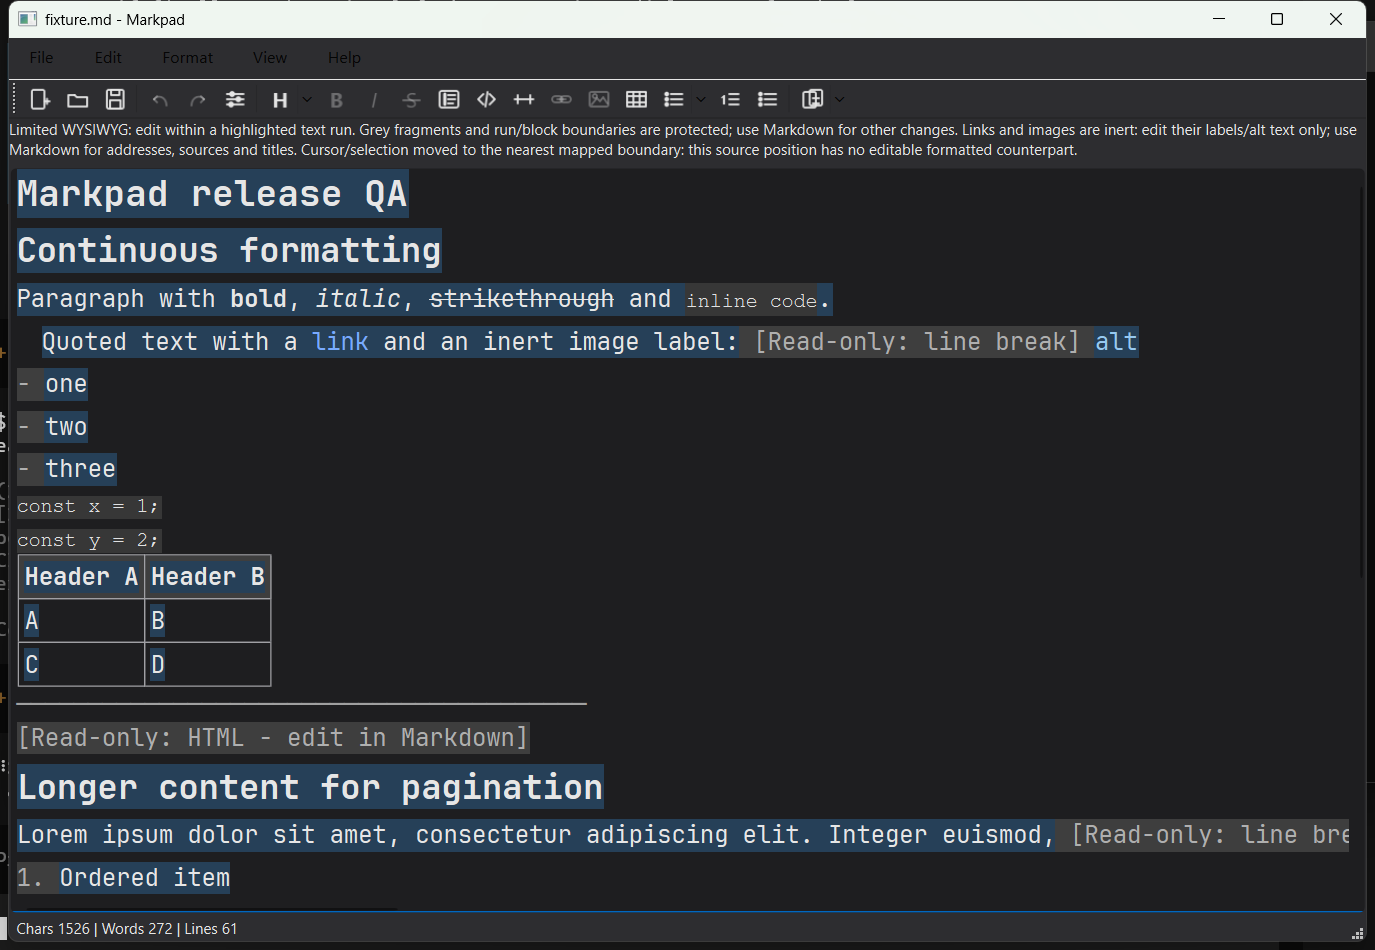
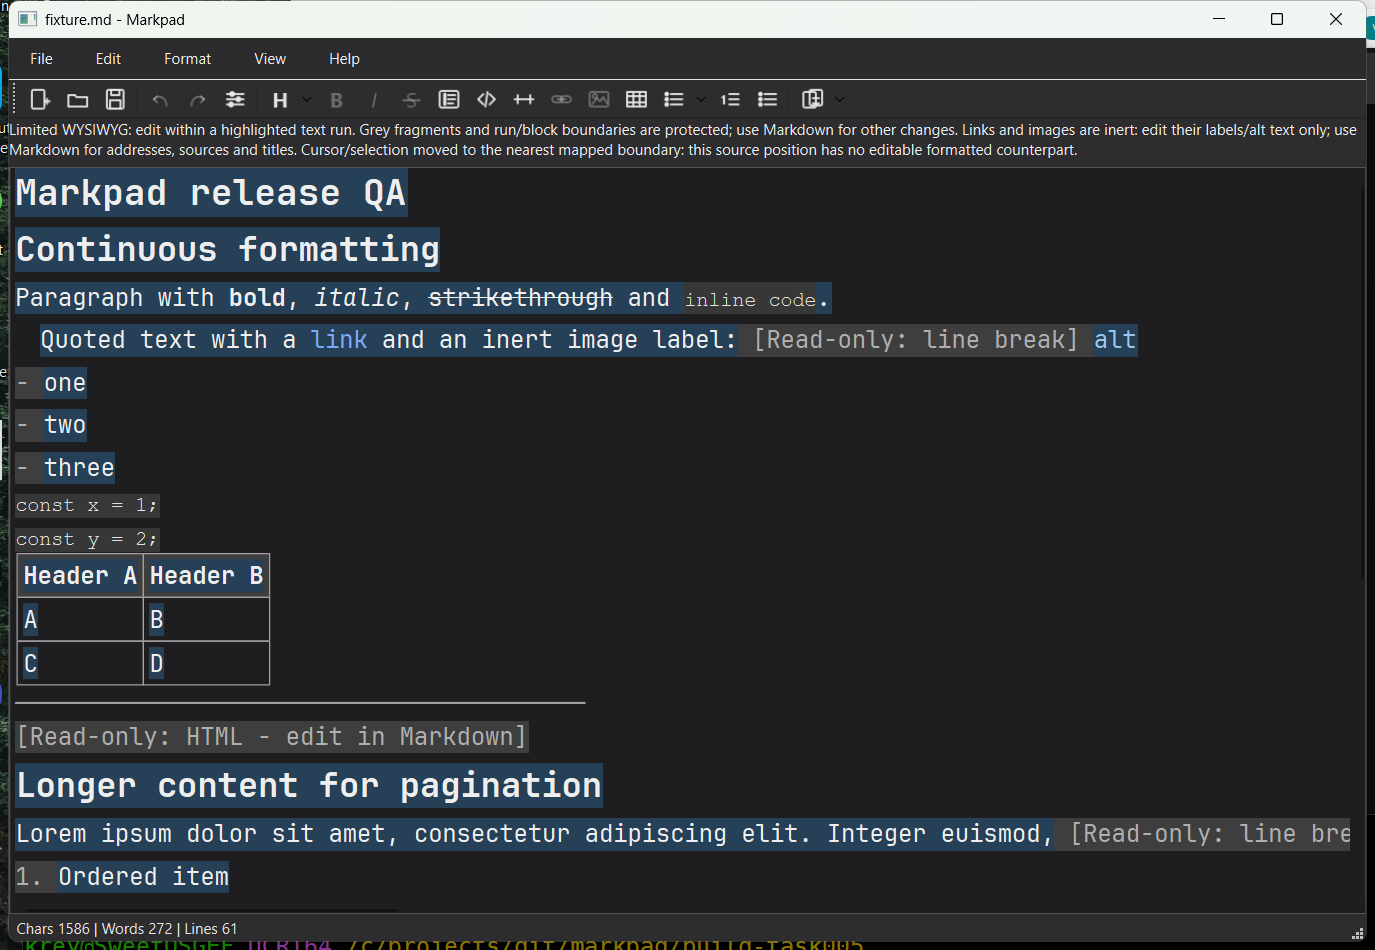
Fix dark theme readability for menus and settings
Apply a dark stylesheet to menus, settings controls and popups, force the non-native Qt menu bar on Windows, add a stylesheet regression check, and refresh dark-theme QA screenshots.

diff --git a/src/main_window.cc b/src/main_window.cc
@@ -126,6 +126,83 @@ QString rawEditorText(QPlainTextEdit* editor) {
   return text;
 }
 
+QString darkStyleSheet() {
+  return QString::fromLatin1(R"QSS(
+QMenuBar {
+  background-color: #2b2b2e;
+  color: #eeeeee;
+}
+QMenuBar::item {
+  background: transparent;
+  color: #eeeeee;
+}
+QMenuBar::item:selected,
+QMenuBar::item:pressed {
+  background: #3d3d42;
+}
+QMenu {
+  background-color: #2b2b2e;
+  color: #eeeeee;
+  border: 1px solid #555555;
+}
+QMenu::item {
+  background: transparent;
+  color: #eeeeee;
+  padding: 4px 24px 4px 20px;
+}
+QMenu::item:selected {
+  background-color: #3b6ea8;
+  color: #ffffff;
+}
+QMenu::item:disabled {
+  color: #888888;
+}
+QMenu::separator {
+  height: 1px;
+  background: #555555;
+  margin: 4px 8px;
+}
+QToolTip {
+  background-color: #1e1e20;
+  color: #eeeeee;
+  border: 1px solid #555555;
+}
+QComboBox,
+QLineEdit,
+QSpinBox,
+QDoubleSpinBox,
+QFontComboBox,
+QPlainTextEdit,
+QTextEdit {
+  background-color: #1e1e20;
+  color: #eeeeee;
+  border: 1px solid #555555;
+}
+QComboBox QAbstractItemView {
+  background-color: #1e1e20;
+  color: #eeeeee;
+  selection-background-color: #3b6ea8;
+  selection-color: #ffffff;
+}
+QTabBar::tab {
+  background: #2b2b2e;
+  color: #eeeeee;
+  padding: 6px 14px;
+}
+QTabBar::tab:selected {
+  background: #3d3d42;
+}
+QTabWidget::pane {
+  border: 1px solid #555555;
+}
+QGroupBox,
+QLabel,
+QCheckBox {
+  color: #eeeeee;
+}
+)QSS");
+}
+
 }  // namespace
 
 MainWindow::MainWindow(DocumentFileService& files, DocumentDialogs& dialogs)
@@ -135,6 +212,7 @@ MainWindow::MainWindow(DocumentFileService& files, DocumentDialogs& dialogs)
   languageText_ = settingsService_.languageMap(settings_.language);
   settingsDiagnostic_ = loaded.diagnostic;
   dialogs_.setDefaultLocation(settings_.defaultFileLocation);
+  menuBar()->setNativeMenuBar(false);
   resize(1000, 700);
   editor_->setObjectName(QStringLiteral("markdownEditor"));
   editor_->setFont(QFontDatabase::systemFont(QFontDatabase::FixedFont));
@@ -766,6 +844,8 @@ bool MainWindow::applySettings(const Settings& settings, QString* error) {
                      QColor(140, 140, 140));
   }
   QApplication::setPalette(palette);
+  qApp->setStyleSheet(settings.theme == Theme::kDark ? darkStyleSheet()
+                                                      : QString());
 
   QFont font = settings.editorFontFamily.trimmed().isEmpty()
                    ? QFontDatabase::systemFont(QFontDatabase::FixedFont)

diff --git a/tests/smoke_test.cc b/tests/smoke_test.cc
@@ -1936,6 +1936,7 @@ class MainWindowSmokeTest : public QObject {
     settings.theme = Theme::kDark;
     QString error;
     QVERIFY2(window->applySettings(settings, &error), qPrintable(error));
+    QVERIFY(!qApp->styleSheet().isEmpty());
     auto* rich = window->continuousEditor()->editor();
     auto cursor = rich->document()->find(QStringLiteral("alpha"));
     QVERIFY(!cursor.isNull());
@@ -1957,6 +1958,7 @@ class MainWindowSmokeTest : public QObject {
                 .lightness() < 128);
     settings.theme = Theme::kLight;
     QVERIFY2(window->applySettings(settings, &error), qPrintable(error));
+    QVERIFY(qApp->styleSheet().isEmpty());
     QVERIFY(dialogs.errors.empty());
   }
 

diff --git a/docs/tasks/task_045.md b/docs/tasks/task_045.md
@@ -2,7 +2,7 @@
 
 ## Статус и владелец
 
-- Статус: `Ready`.
+- Статус: `Done`.
 - Владелец: архитектор/координатор; `cpp-developer`, `test-writer`.
 - Приоритет: P1 (release blocker по owner QA).
 - Источник: [release checklist, Dark theme](../release_checklist.md#dark-theme).
@@ -74,4 +74,13 @@ Settings и диалогов, сохранив light/system поведение. 
 
 ## Итог выполнения
 
-Ожидает реализации.
+- Добавлен dark-theme stylesheet для menu bar/menu popup, tooltips, Settings
+  controls, tabs, labels и group boxes; menu bar переведён в non-native Qt
+  режим, чтобы palette/style применялись на Windows.
+- Dark Settings и открытое File menu проверены screenshots; светлая тема
+  очищает stylesheet.
+- `continuousDarkThemeColors` дополнительно проверяет установку/снятие global
+  stylesheet.
+- Windows Debug/Release CTest 7/7. Screenshots обновлены в
+  `docs/qa/task_011/dark/` (`menu.png`, `settings.png`, `settings-page.png`).
+- Ветка `feature/task_045`; требуется merge и повторная owner visual QA.

diff --git a/docs/tasks/README.md b/docs/tasks/README.md
@@ -50,7 +50,7 @@
 | 042 | Acceptance matrix Task 005 и закрытие среза | Done | 026–041 |
 | 043 | Настройки типографики WYSIWYG | Done | 005, 009; per-block controls на Page |
 | 044 | Настоящая редактируемая постраничная поверхность | Ready | 005, 006, 043, 045, 046; выбран incremental page sheets |
-| 045 | Dark theme: меню и Settings readability | Ready | 009; owner QA |
+| 045 | Dark theme: меню и Settings readability | Done | 009; owner QA; non-native menu + dark QSS |
 | 046 | WYSIWYG backgrounds, code blocks и table fit | Ready | 005, 006, 043 |
 | 047 | PDF export layout parity | Blocked | 044, 046; ждёт page surface |
 | 048 | Toolbar actions и dropdown menus | Ready | 004, 032 |

diff --git a/docs/qa/task_011/README.md b/docs/qa/task_011/README.md
@@ -11,7 +11,7 @@ These screenshots were captured from the Windows portable Release package on Win
 | `paged.png` | Paged WYSIWYG, light theme, page count visible. |
 | `settings.png` | Settings dialog General tab with deferred Auto Save. |
 | `settings-page.png` | Settings Page tab with page setup and per-block WYSIWYG typography controls. |
-| `dark/*.png` | The same views with the dark theme selected. |
+| `dark/*.png` | The same views with the dark theme selected; `dark/menu.png` shows the corrected menu contrast. |
 | `print-to-pdf.pdf` | Output from Microsoft Print to PDF through the native print dialog. |
 | `print-to-pdf.txt` | `pdftotext` extraction of the printed PDF for quick content review. |
 | `fixture.md` | Source fixture used for the screenshots and print check. |

diff --git a/docs/release_checklist.md b/docs/release_checklist.md
@@ -88,7 +88,8 @@ Notes:
 
 ### Dark theme
 
-Tracking: [Task 045](tasks/task_045.md).
+Tracking: [Task 045](tasks/task_045.md). Status: fixed on `feature/task_045`;
+owner re-review required (`dark/menu.png`, `dark/settings.png`).
 
 1. Any menu is not seen in the dark mode (text color is dark on dark background).
 2. In the Settings window the most options are unseen in dark mode (text color is white on light background).
